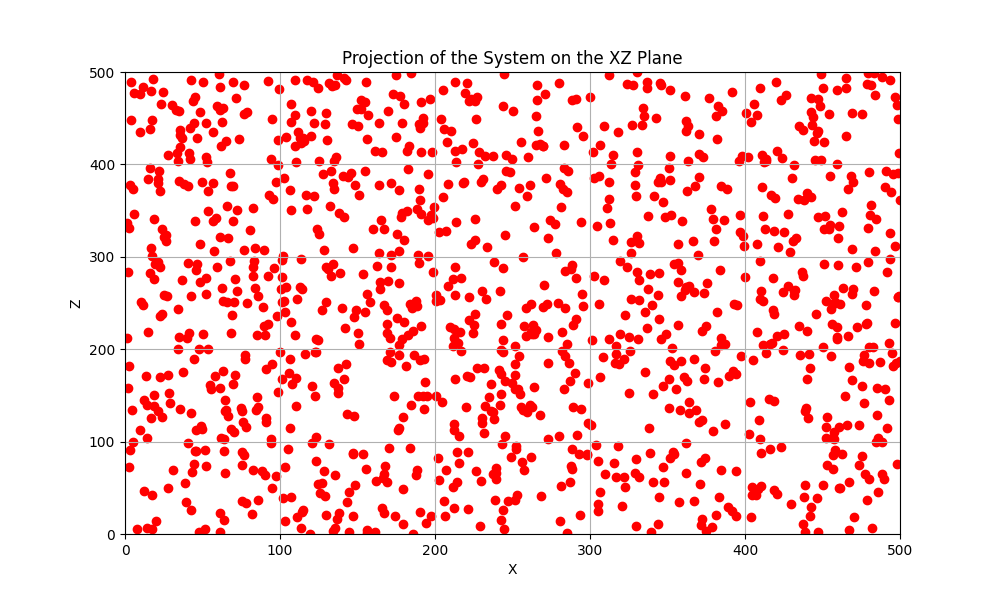
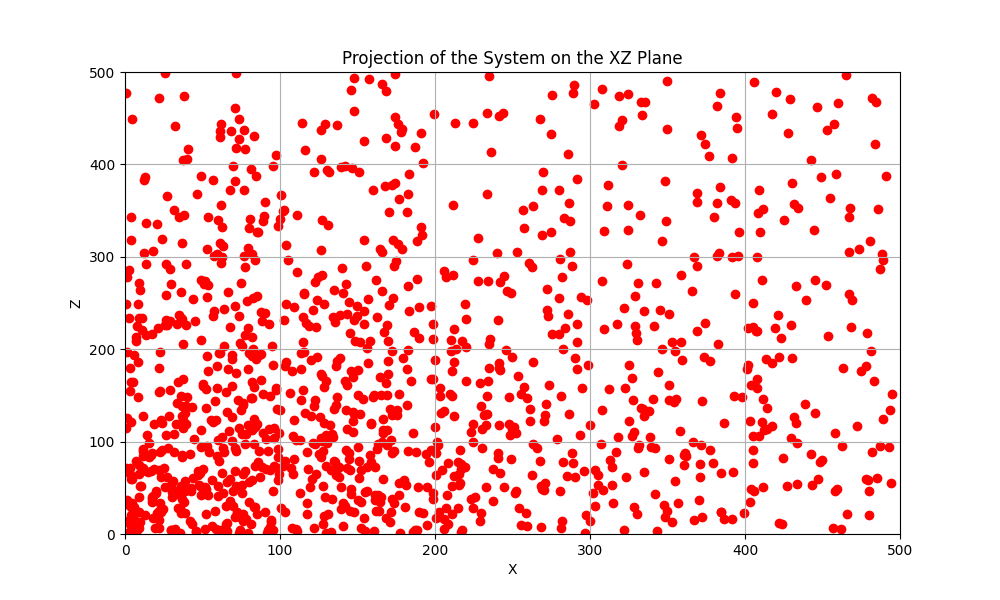
added 3d plotting

Changed region(s): [[0.124, 0.12, 0.899, 0.9]]

diff --git a/montecarlosim/plotter.py b/montecarlosim/plotter.py
@@ -1,4 +1,5 @@
 import matplotlib.pyplot as plt
+from mpl_toolkits.mplot3d import Axes3D  # Import the 3D plotting toolkit
 
 class Plotter:
     def __init__(self, simulation):
@@ -16,17 +17,11 @@ class Plotter:
         plt.grid(True)
         plt.savefig('energy_over_time.png')
         plt.close()
-        
 
     def plot_xz_projection(self, step_index=-1):
-        """
-        Plots the projection of the system on the xz plane for a given snapshot,
-        fitting the plot to the whole capacity of the container.
-        If step_index is not provided, it plots the last snapshot by default.
-        """
         system_snapshot = self.simulation.steps[step_index]
-        xs, _, zs = system_snapshot  # Extract xs and zs from the snapshot
-        max_x, _, max_z = self.simulation.container.corner  # Get container dimensions
+        xs, _, zs = system_snapshot
+        max_x, _, max_z = self.simulation.container.corner
 
         plt.figure(figsize=(10, 6))
         plt.scatter(xs, zs, color='r')
@@ -37,4 +32,24 @@ class Plotter:
         plt.ylabel('Z')
         plt.grid(True)
         plt.savefig(f'xz_projection_step_{step_index}.png')
+        plt.close()
+
+    def plot_3d_state(self, step_index=-1):
+        """
+        Plots the 3D state of the system for a given snapshot.
+        If step_index is not provided, it plots the last snapshot by default.
+        """
+        system_snapshot = self.simulation.steps[step_index]
+        xs, ys, zs = system_snapshot  # Extract xs, ys, and zs from the snapshot
+
+        fig = plt.figure(figsize=(10, 8))
+        ax = fig.add_subplot(111, projection='3d')  # Create a 3D subplot
+        ax.scatter(xs, ys, zs, color='r', marker='o')  # Plot the points in 3D space
+
+        ax.set_title('3D State of the System')
+        ax.set_xlabel('X')
+        ax.set_ylabel('Y')
+        ax.set_zlabel('Z')
+        ax.grid(True)
+        plt.savefig(f'3d_state_step_{step_index}.png')
         plt.close()

diff --git a/run_simulation.py b/run_simulation.py
@@ -14,11 +14,11 @@ def main():
     print(f"Simulation started at {time.asctime()}...")
     t0 = time.time()
 
-    container = get_region('block', (L, L, L))
+    container = get_region('sphere', radius=L)
     sim = Simulation(container, N
         , step_size=0.2
         , stop_condition='max_steps_6K'
-        , init_pressure=1
+        , init_pressure=0.2
         )
     sim.start()
 
@@ -27,8 +27,11 @@ def main():
 
     plotter = Plotter(sim)
     plotter.plot_energy()
+    
     plotter.plot_xz_projection(0)
     plotter.plot_xz_projection()
+    
+    plotter.plot_3d_state()
 
 if __name__ == '__main__':
     main()

diff --git a/montecarlosim/simulation.py b/montecarlosim/simulation.py
@@ -134,9 +134,9 @@ class Simulation():
 
             while not self.container.contains(pi):
                 pi = (
-                    max_x * np.random.rand(),
-                    max_y * np.random.rand(),
-                    max_z * np.random.rand()
+                    pf * max_x * np.random.rand(),
+                    pf * max_y * np.random.rand(),
+                    pf * max_z * np.random.rand()
                 )
             
             xs[i], ys[i], zs[i] = pi[0], pi[1], pi[2]
